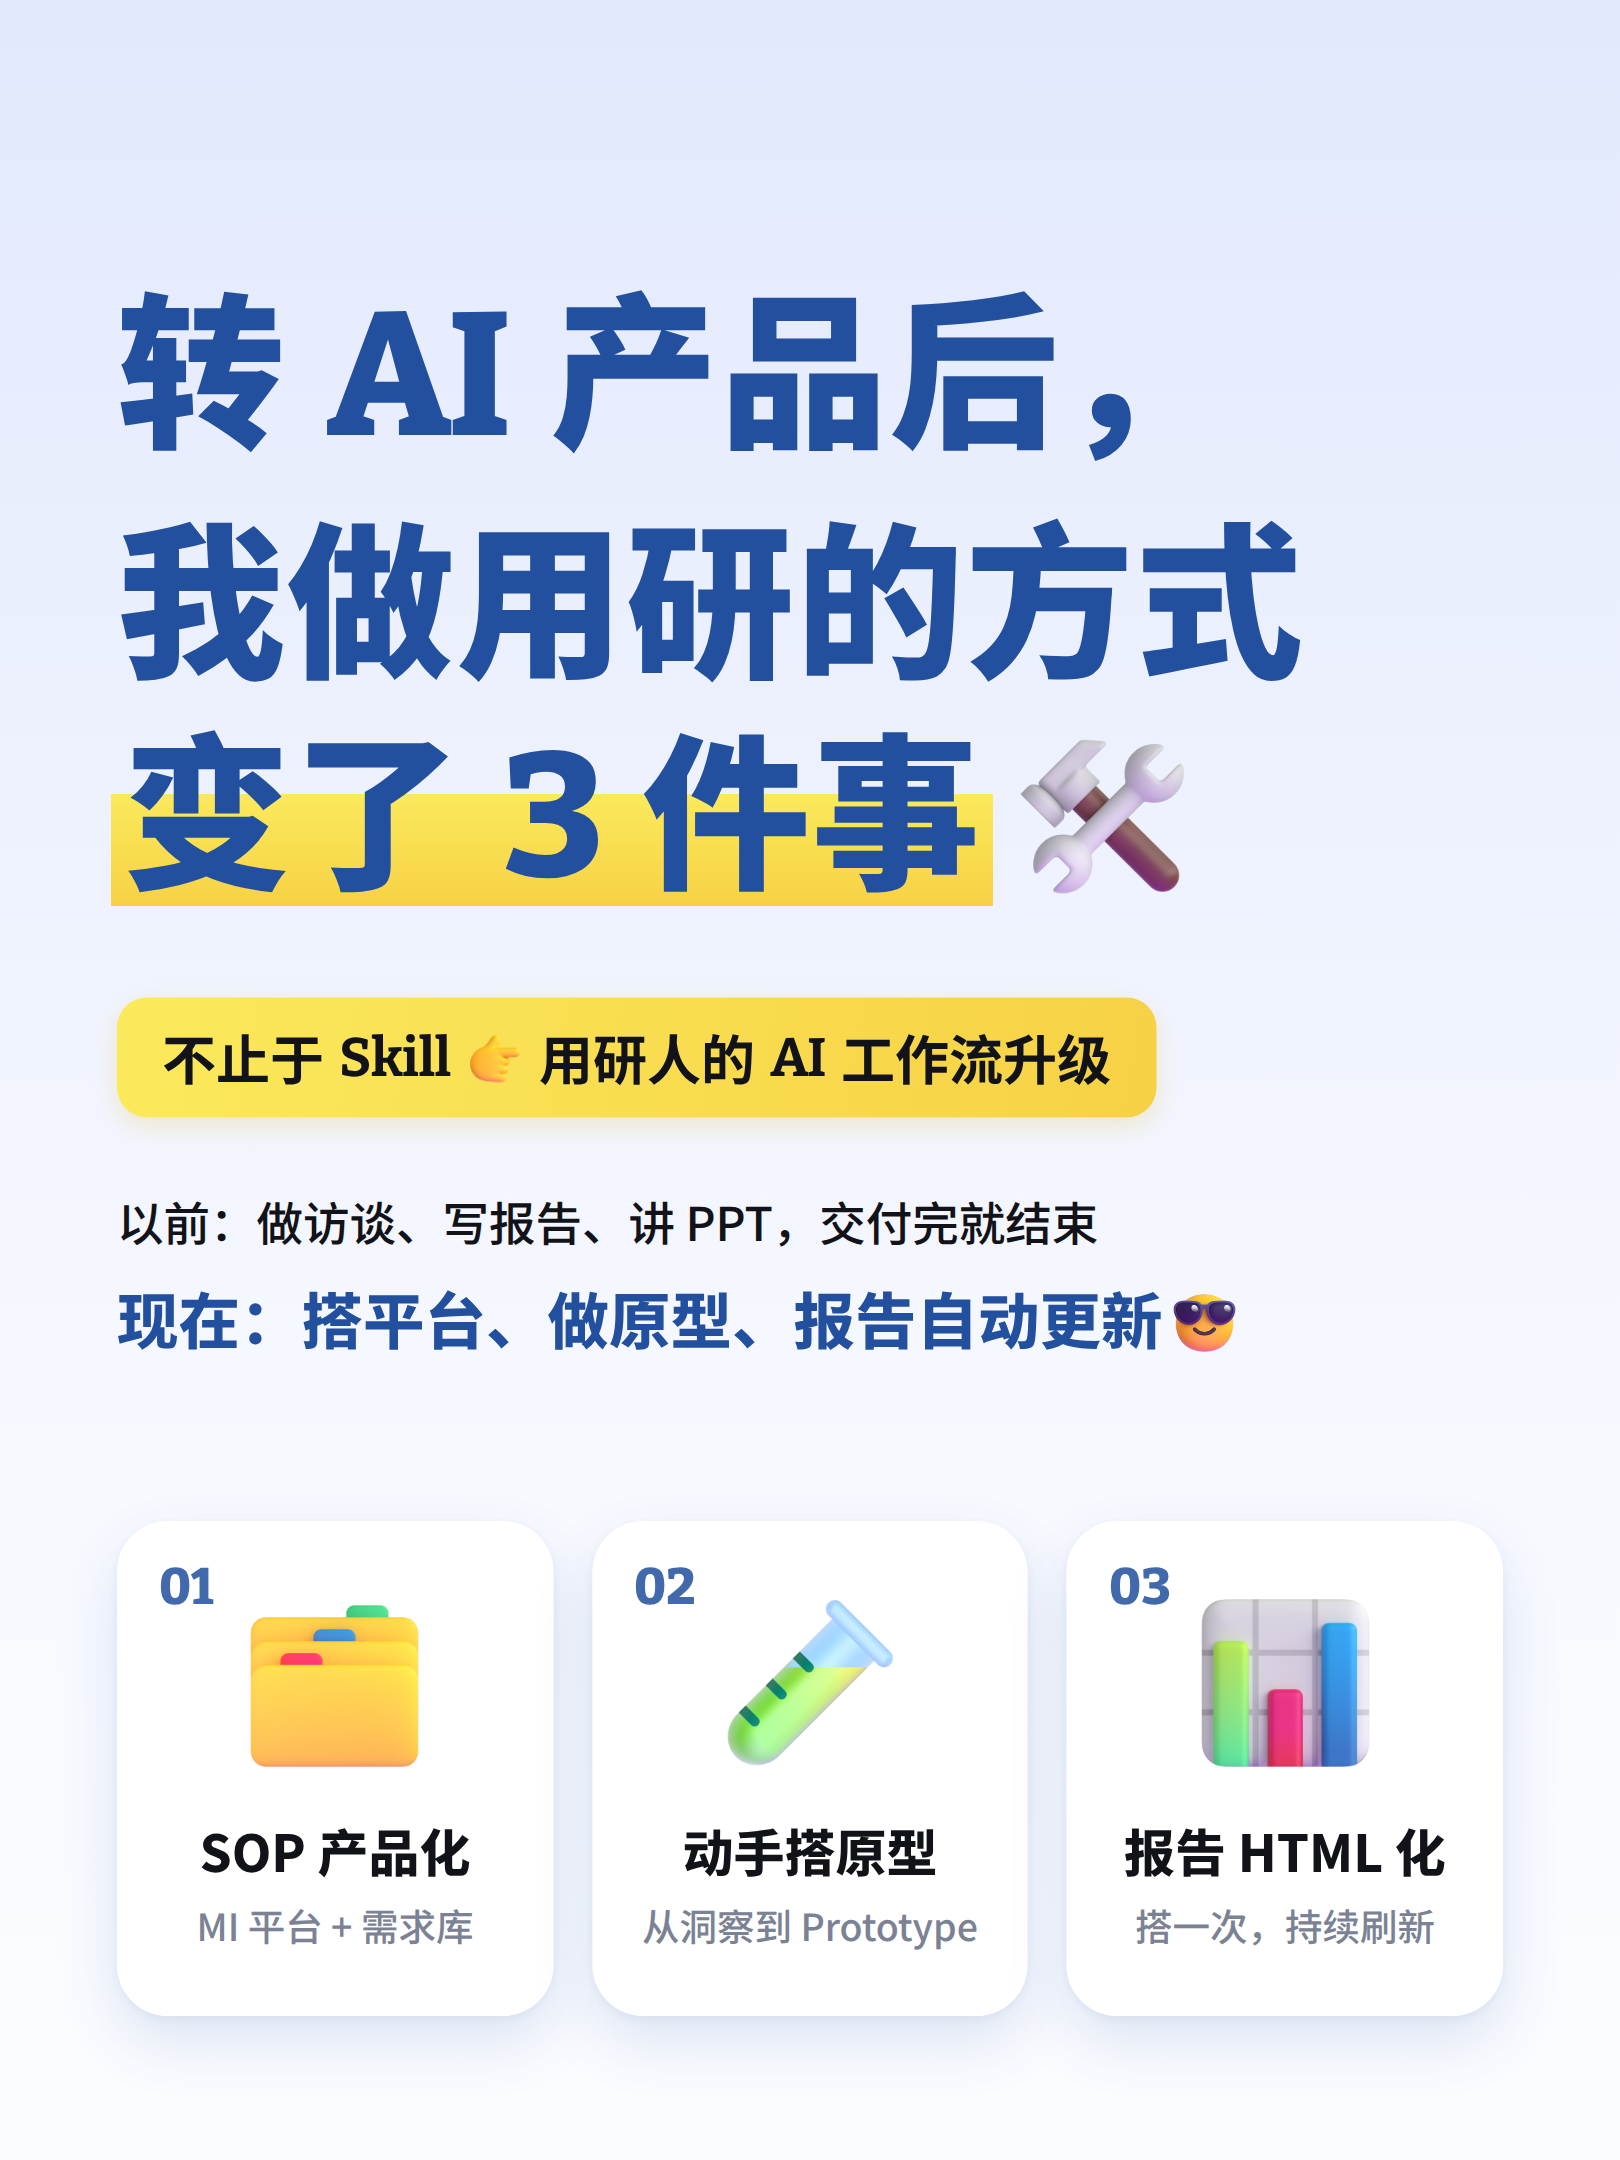
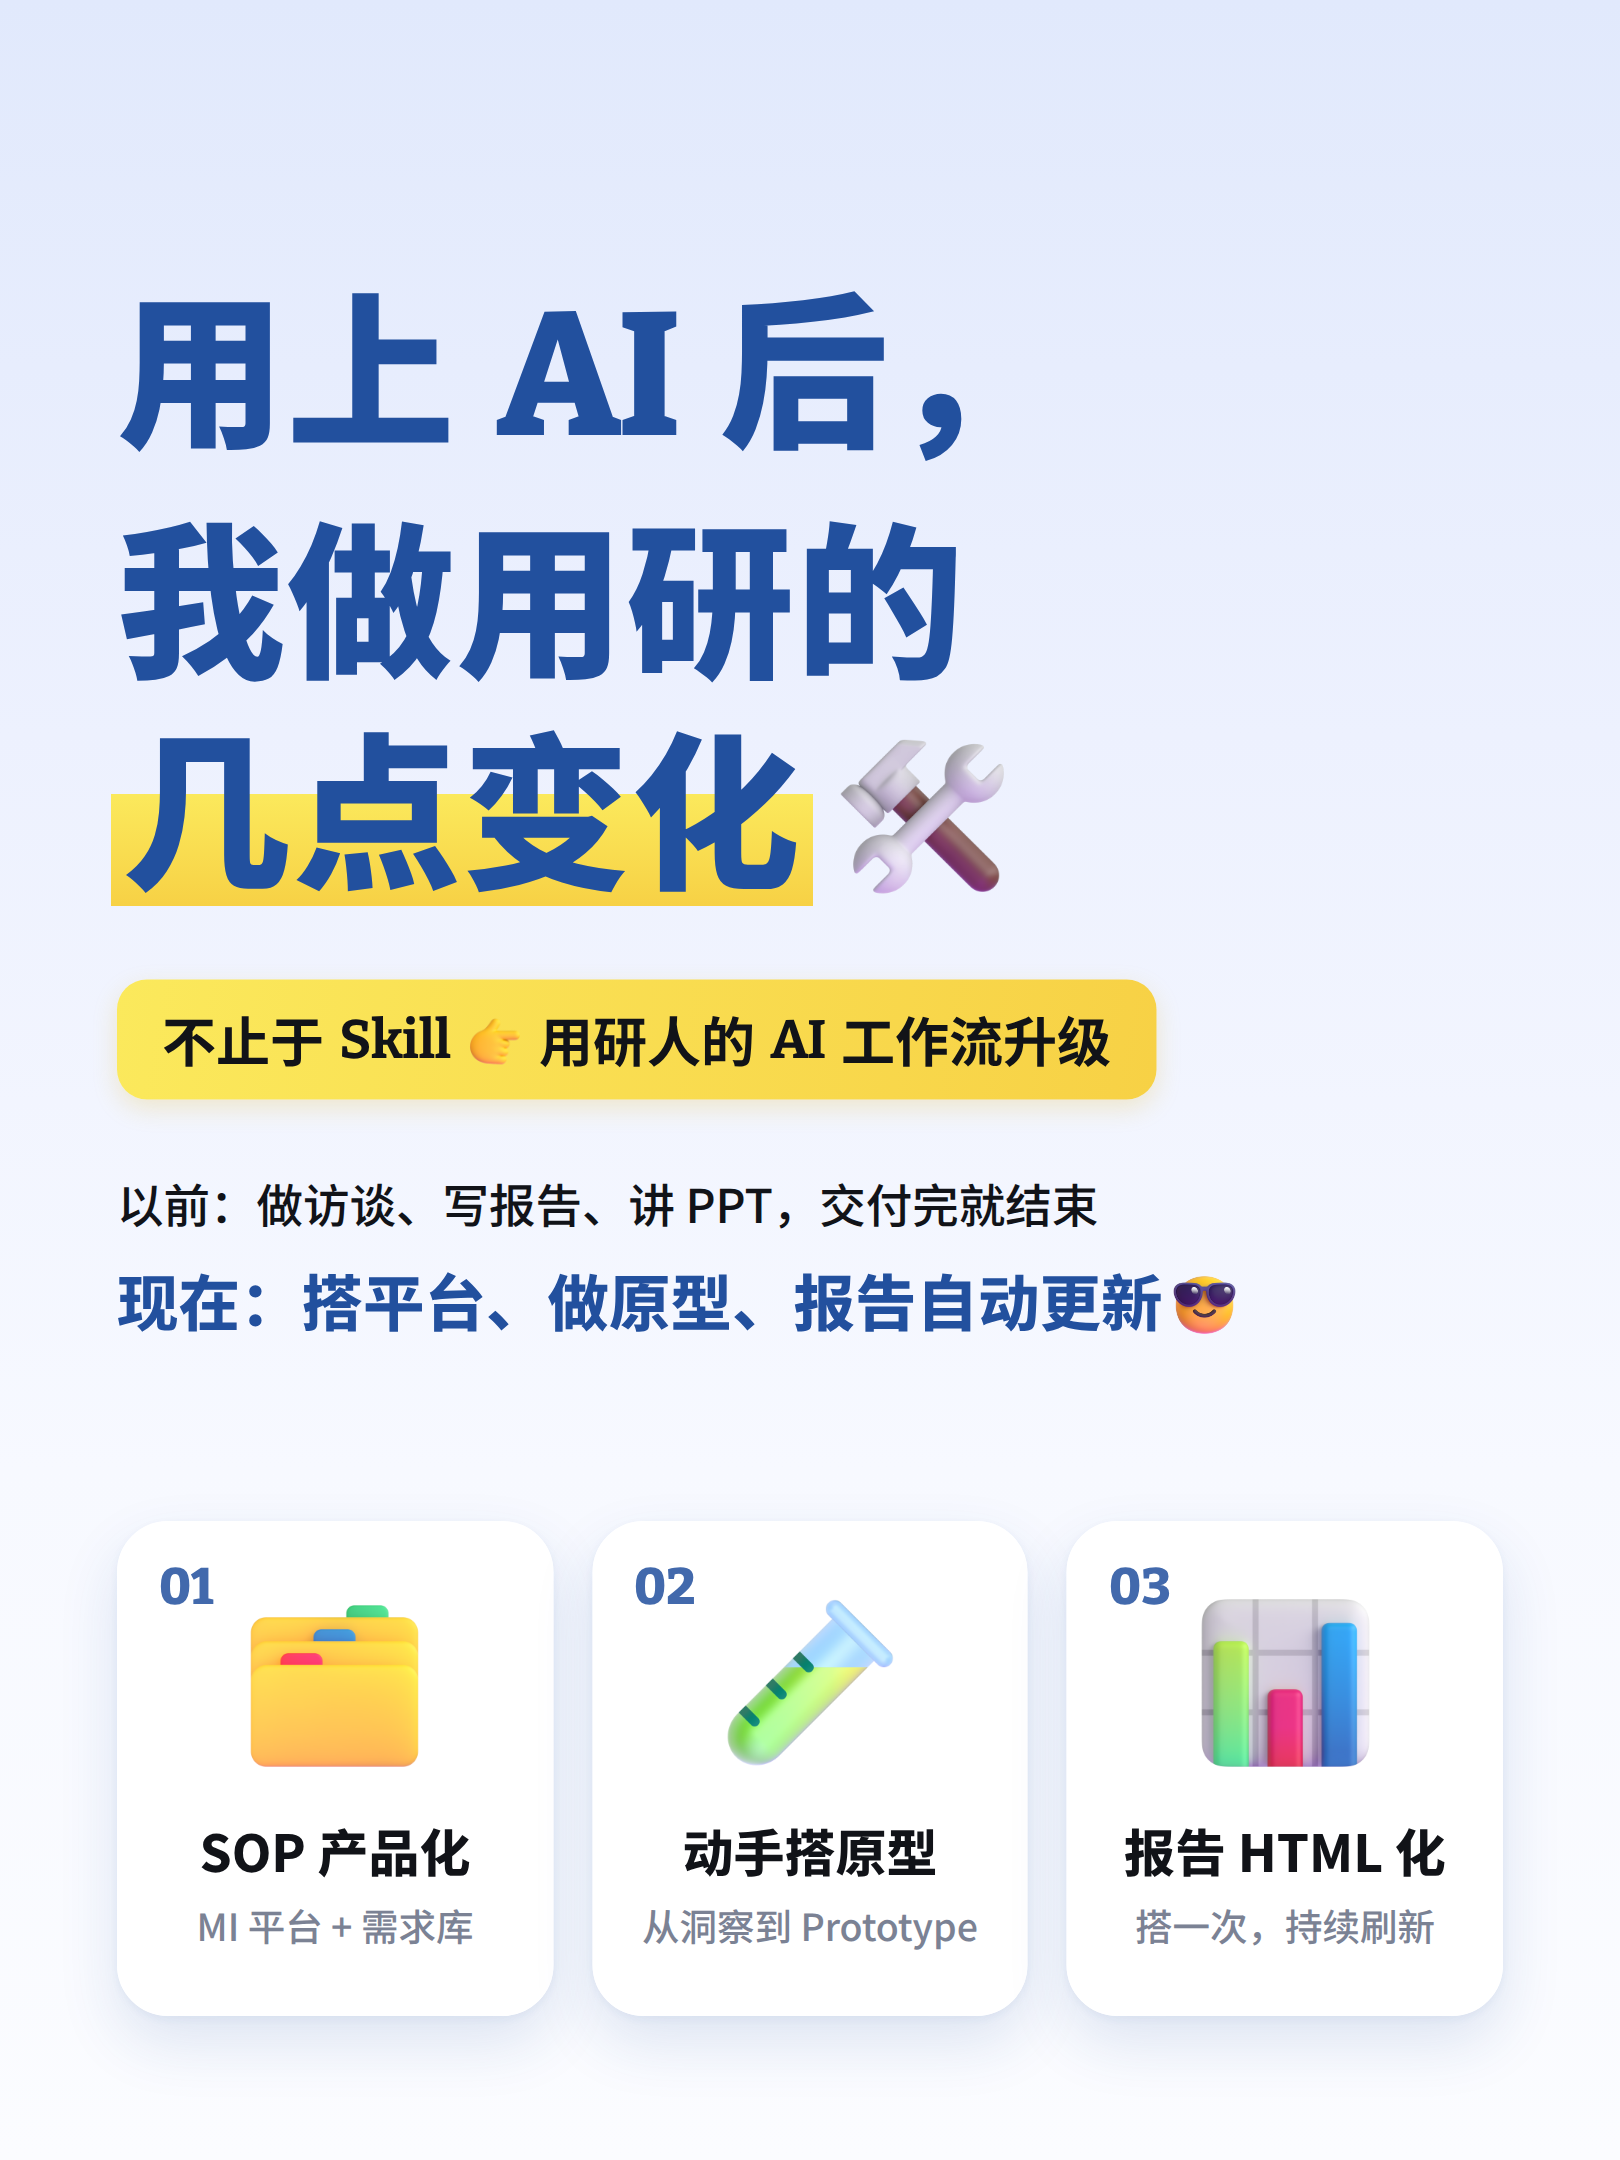
Change cover title to 用上 AI 后，我做用研的几点变化

Changed region(s): [[0.0617, 0.2171, 0.8025, 0.6514], [0.0617, 0.1241, 0.6481, 0.2171], [0.679, 0.1861, 0.7099, 0.2171]]

diff --git a/xhs-ai-research/pages/01-cover.html b/xhs-ai-research/pages/01-cover.html
@@ -7,9 +7,9 @@
   <body>
     <div class="page cover">
       <div class="cover-title">
-        <div>转 <span class="slab">AI</span> 产品后，</div>
-        <div>我做用研的方式</div>
-        <div><span class="marker">变了 <span class="slab">3</span> 件事</span><img class="emo" src="../assets/emoji/tools.png" /></div>
+        <div>用上 <span class="slab">AI</span> 后，</div>
+        <div>我做用研的</div>
+        <div><span class="marker">几点变化</span><img class="emo" src="../assets/emoji/tools.png" /></div>
       </div>
 
       <div class="pill">不止于 <span class="slab">Skill</span> <img class="emo" src="../assets/emoji/pointright.png" /> 用研人的 <span class="slab">AI</span> 工作流升级</div>
